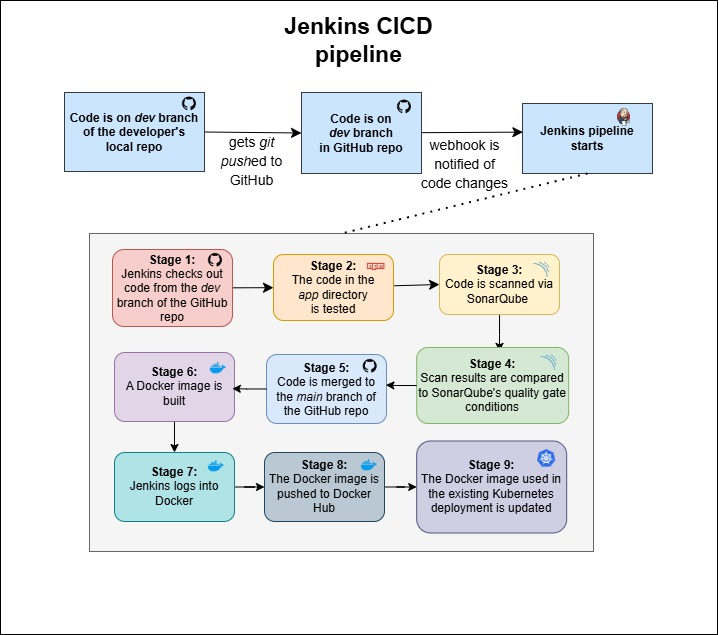
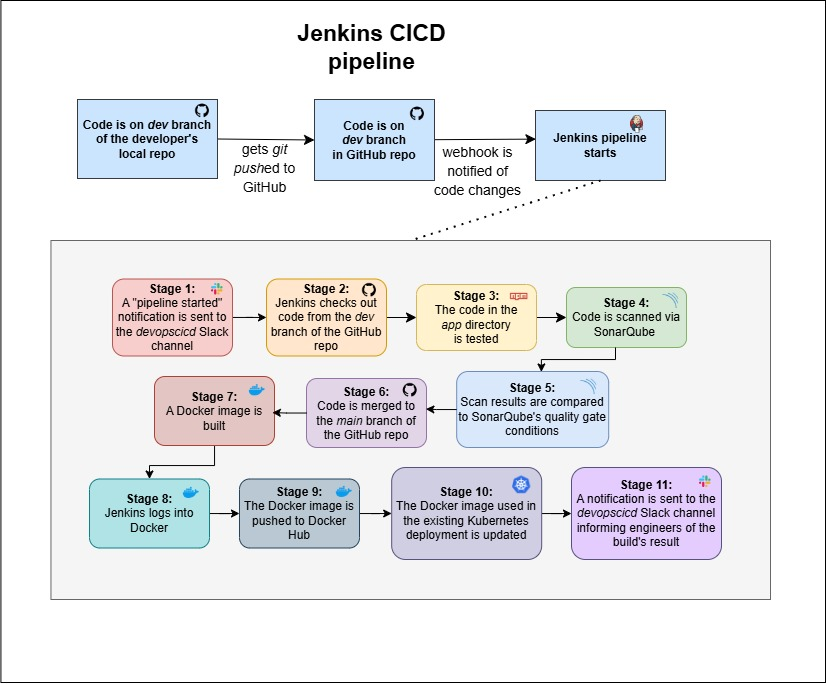
updated notes

diff --git a/Project 1/README.md b/Project 1/README.md
@@ -8,7 +8,7 @@
 
 ## Goal of the project
 
-The goal of this project is to implement a CI/CD pipeline for efficient software delivery. The pipeline will run on Jenkins and use SonarQube, Docker, and Kubernetes for the automated integration, code-scanning, deployment, and management of a containerised application already running via Minikube on an EC2. Upon completion of the pipeline, a notification will be sent to a Slack channel to update the DevOps team on the result.
+The goal of this project is to implement a CI/CD pipeline for efficient software delivery. The pipeline will run on Jenkins and use SonarQube, Docker, and Kubernetes for the automated integration, code-scanning, deployment, and management of a containerised application already running via Minikube on an EC2. When the pipeline is started, a notification will be sent to a Slack channel to inform the DevOps team, and upon its completion, another notification will be sent to update them on the build's result.
 
 ## Prerequisites
 
@@ -40,13 +40,14 @@ The goal of this project is to implement a CI/CD pipeline for efficient software
 1. Credentials for Docker Hub, GitHub, and the SSH key for the target VM are stored as variables that can be referenced throughout the entire pipeline in the `environment` block
 2. NodeJS version 20 is specified in the `tools` block
 3. **Stages**:
-   1. The code is checked out from the *dev* branch of the GitHub repo using the credentials stored as an environment variable
-   2. The *app* folder is set as the working directory, and tests are run on the code
-   3. The code is scanned by the SonarQube server, where it is stored as a project called *sparta-app*
-   4. The results of the scan are compared to the quality gate conditions (in this case, SonarQube's default quality gate is used)
-   5. Provided the above stages run successfully, the tested code is merged to the *main* branch of the GitHub repo
-   6. The Docker image is built, with the build number of the Jenkins pipeline being passed as the image tag
-   7. Jenkins logs into Docker using the provided credentials
-   8. The Docker image is pushed to Docker Hub
-   9. The Docker image used the existing Kubernetes deployment (running on Minikube on the target VM) is updated
+   1. A notification is sent to the *#devopscicd* Slack channel informing the DevOps team that the pipeline has been started
+   2. The code is checked out from the *dev* branch of the GitHub repo using the credentials stored as an environment variable
+   3. The *app* folder is set as the working directory, and tests are run on the code
+   4. The code is scanned by the SonarQube server, where it is stored as a project called *sparta-app*
+   5. The results of the scan are compared to the quality gate conditions (in this case, SonarQube's default quality gate is used)
+   6. Provided the above stages run successfully, the tested code is merged to the *main* branch of the GitHub repo
+   7. The Docker image is built, with the build number of the Jenkins pipeline being passed as the image tag
+   8. Jenkins logs into Docker using the provided credentials
+   9. The Docker image is pushed to Docker Hub
+   10. The Docker image used the existing Kubernetes deployment (running on Minikube on the target VM) is updated
 4.  Post-build, a notification is sent to the *#devopscicd* Slack channel informing the DevOps team of the build's result
